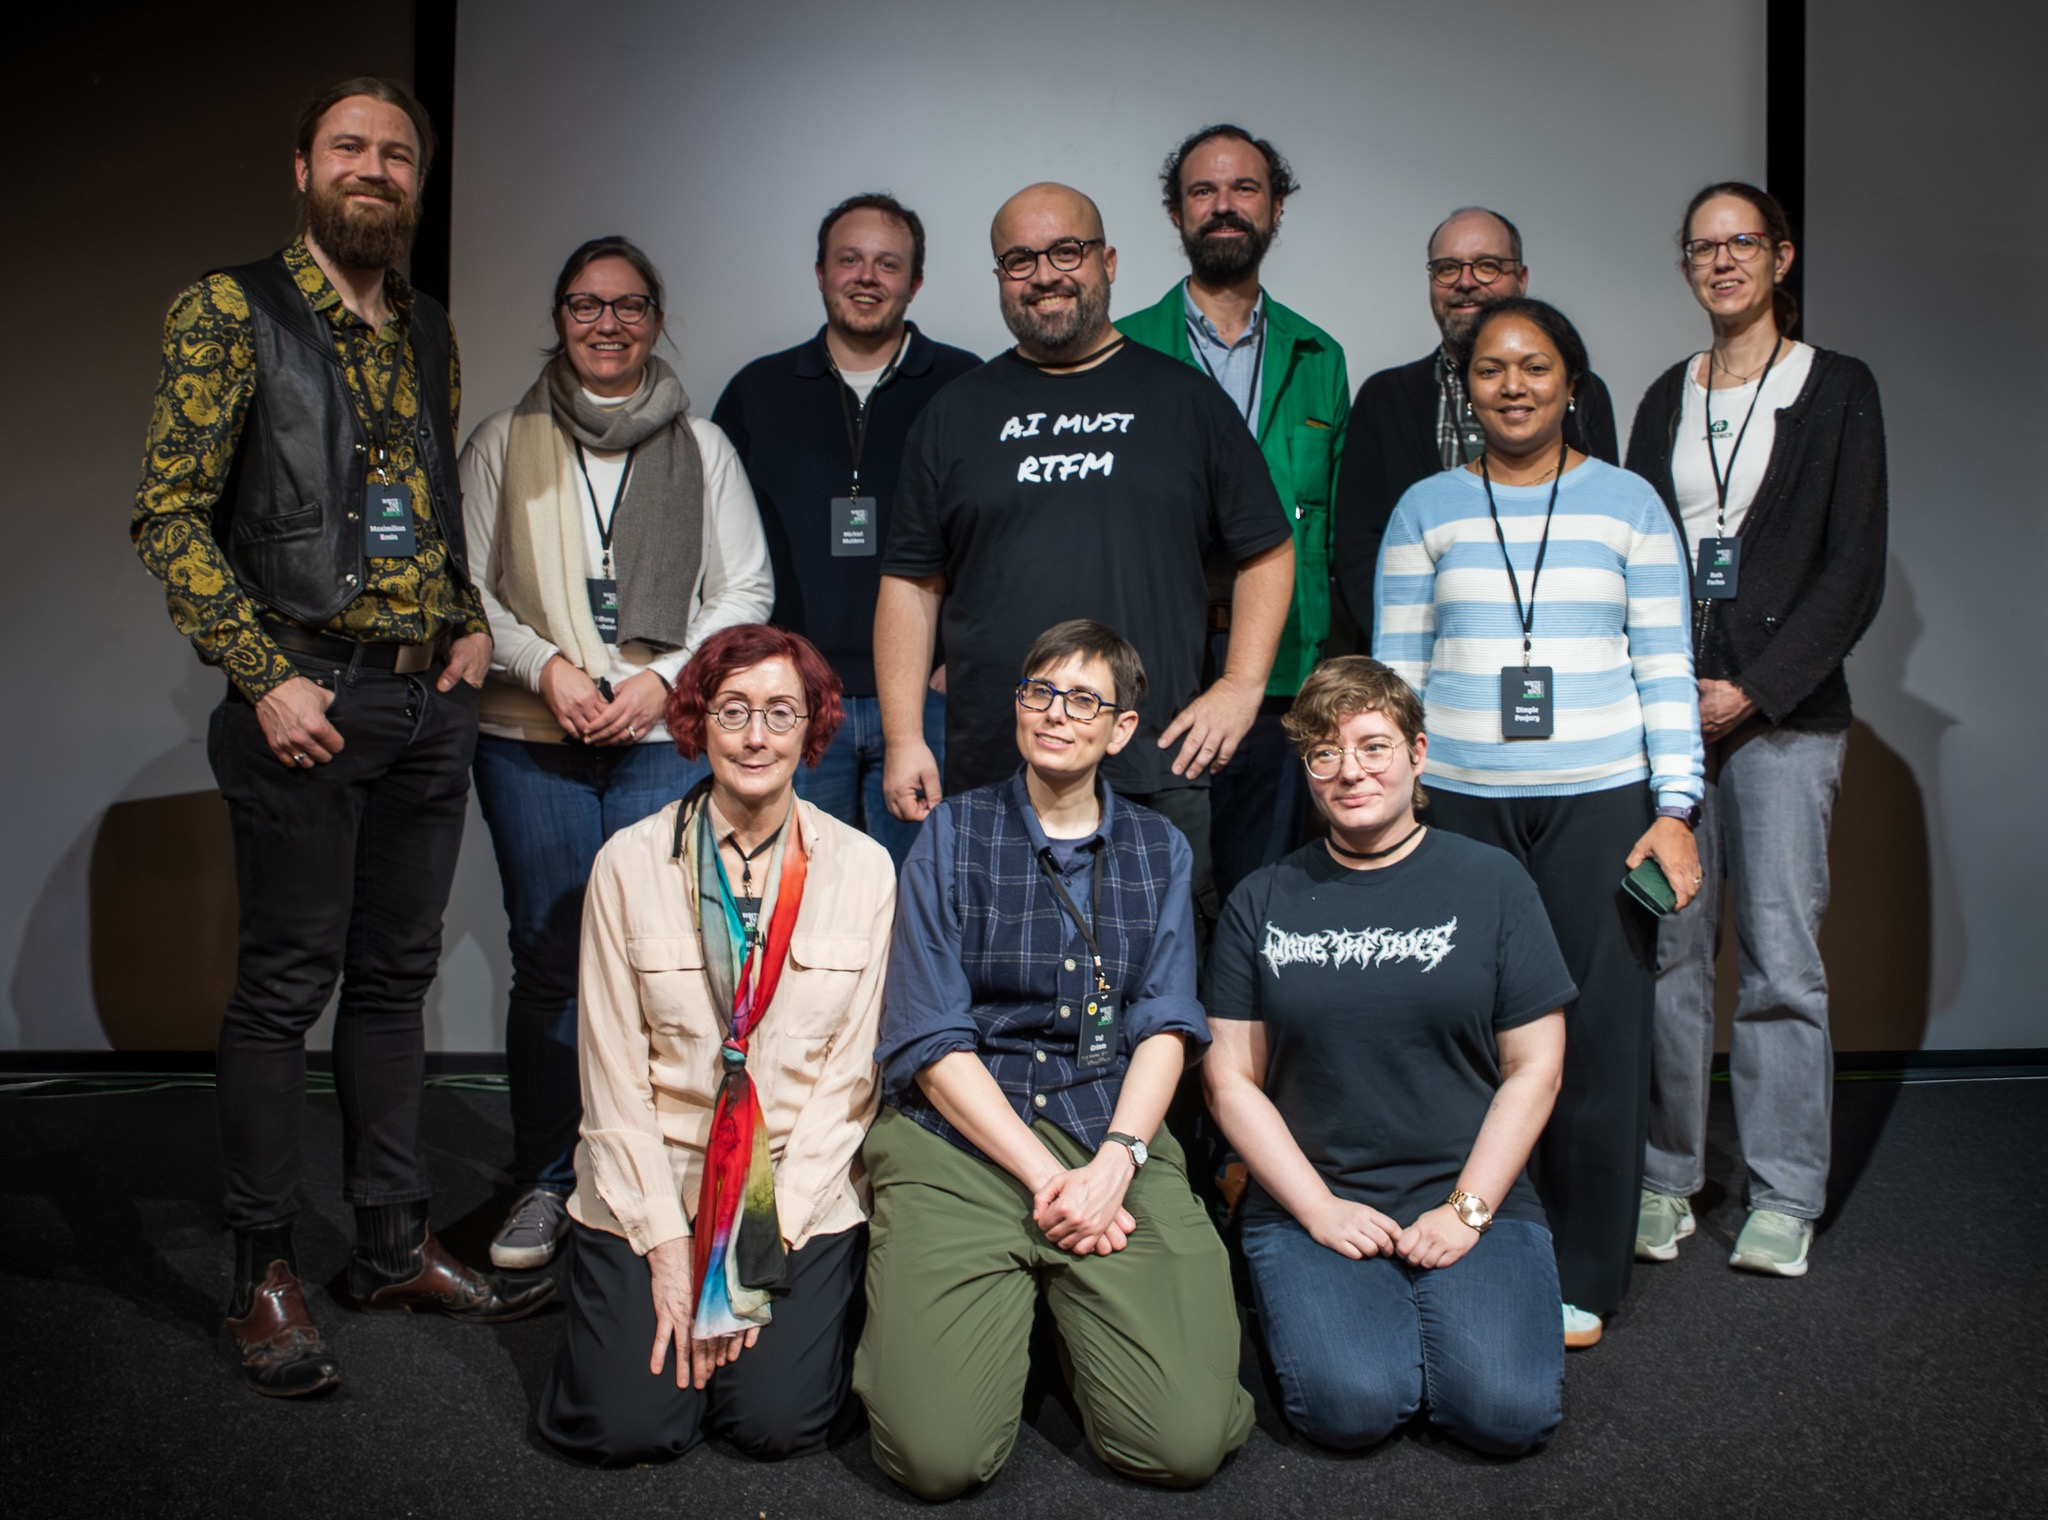
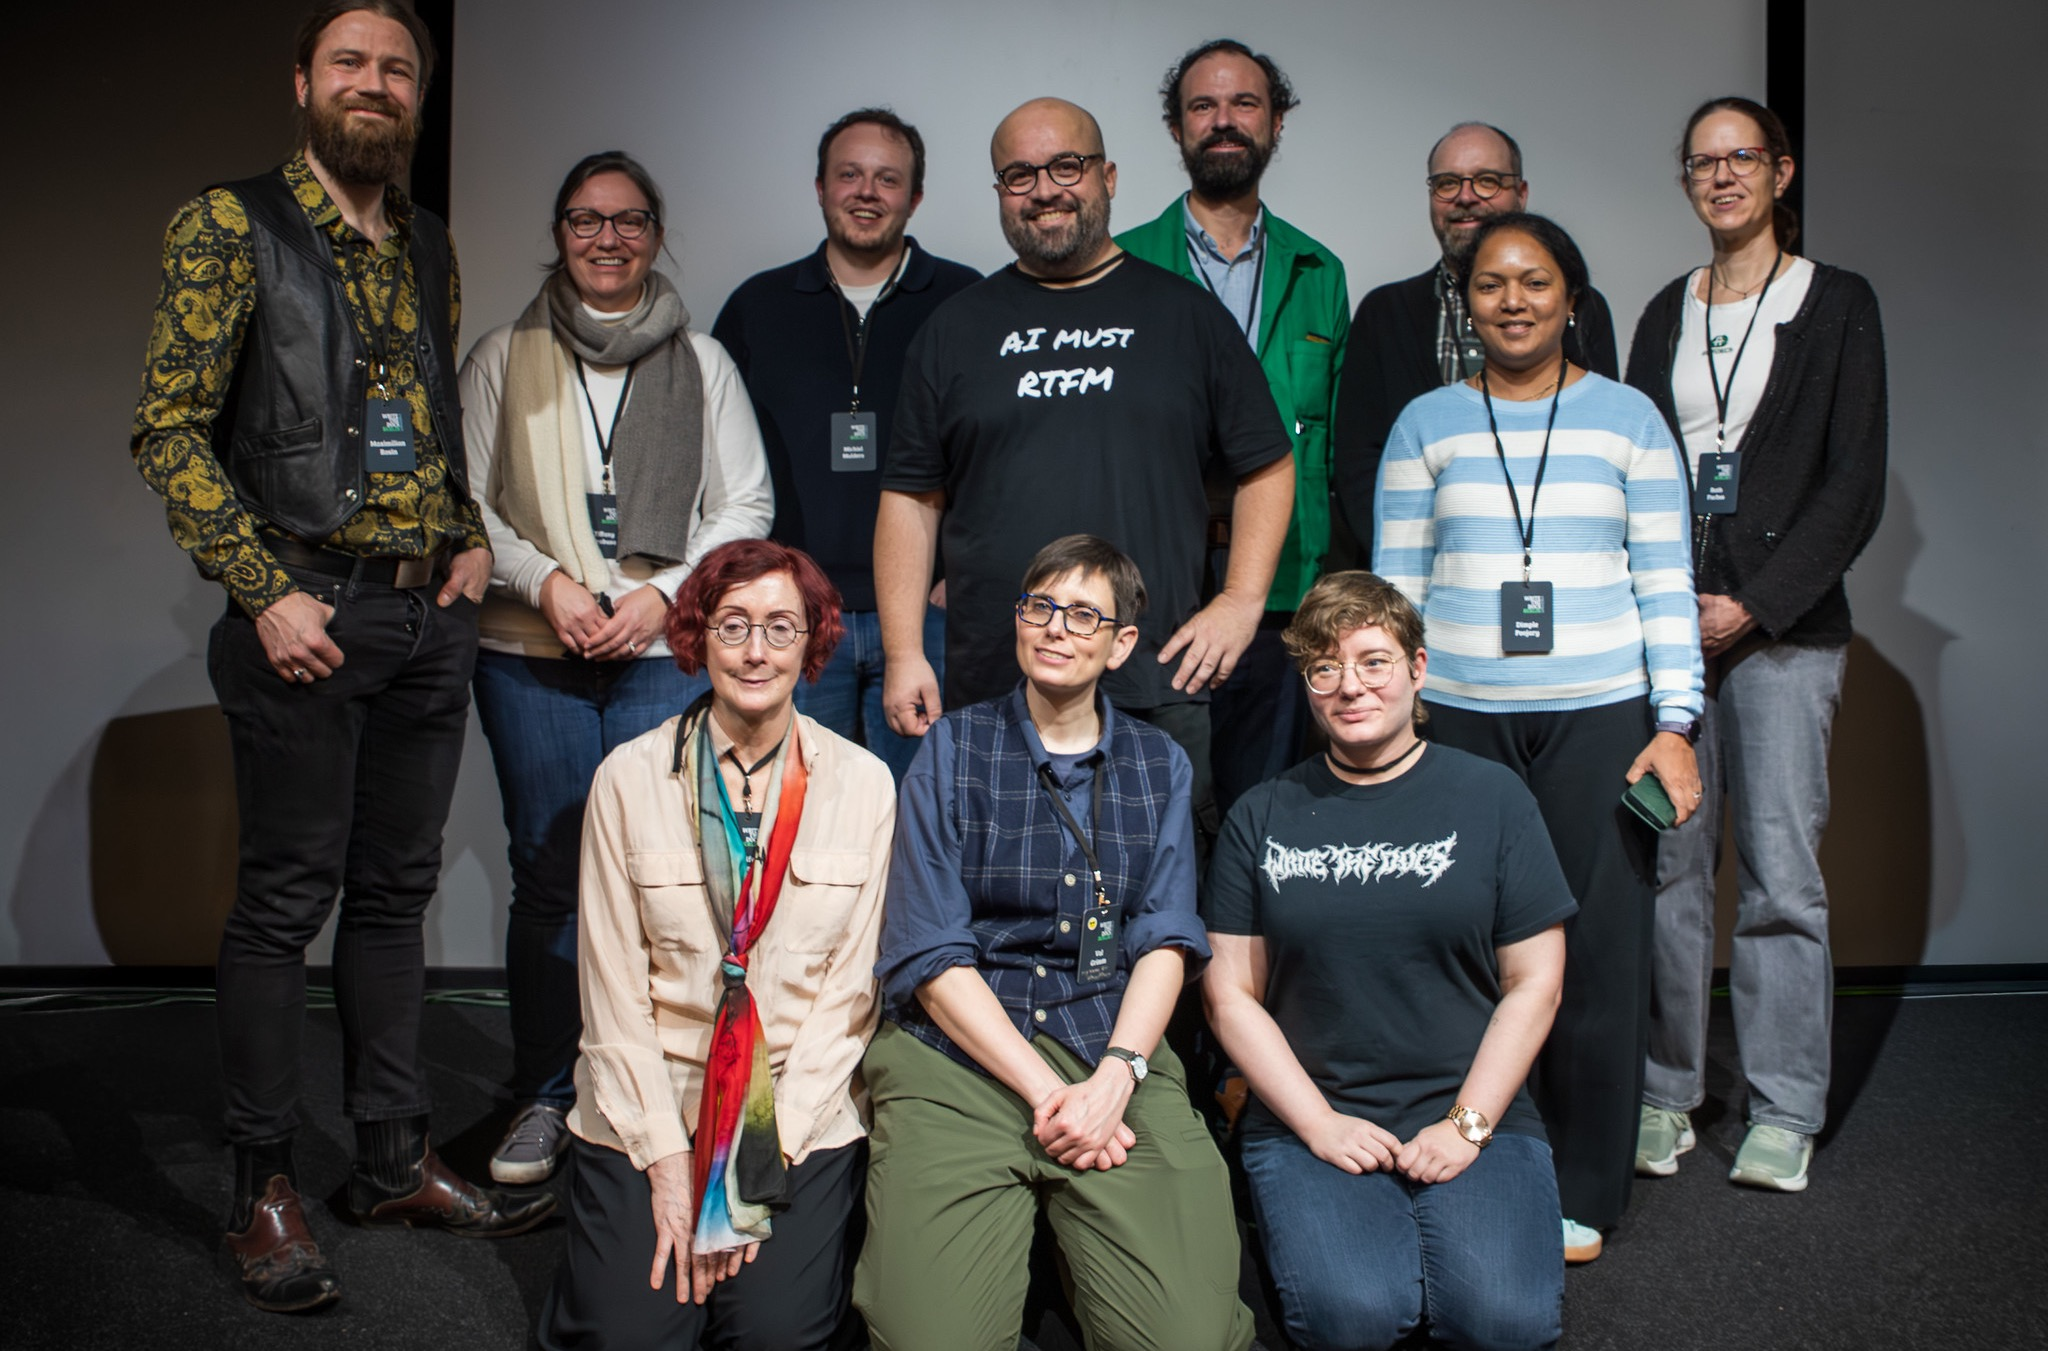
Berlin two months out / venue updates

Pull request: Berlin two months out / venue updates
<!-- readthedocs-preview writethedocs-www start -->
----
📚 Documentation preview 📚: https://writethedocs-www--2724.org.readthedocs.build/

<!-- readthedocs-preview writethedocs-www end -->

diff --git a/docs/conf/berlin/2026/news/two-months-out.md b/docs/conf/berlin/2026/news/two-months-out.md
@@ -1,0 +1,89 @@
+---
+template: {{year}}/generic.html
+og:image: _static/conf/images/headers/{{shortcode}}-{{year}}-opengraph.jpg
+---
+
+```{post} July 16, 2026
+:tags: {{shortcode}}-{{year}}, speakers, tickets, visiting, writing-day, social, shirts, sponsors, volunteer
+```
+
+# Conference is 2 Months Away!
+
+Write the Docs {{ city }} is just two months away, on **{{ date.short }}**. This year, we've added Writing Day back in, on {{ date.day_two.dotw }}. If you have not grabbed your ticket yet, now is a great time. Check out our [speaker lineup](https://www.writethedocs.org/conf/{{shortcode}}/{{year}}/speakers/), or read on to learn about our Attendee Guide, Writing Day, our Welcome Reception, T-shirts, and tips for planning your trip to Berlin.
+
+<!-- call to action button -->
+<table cellpadding="0" cellspacing="0" width="200" role="presentation" align="center" class="cta">
+<tr><td height="30"></td></tr>
+<tr><td style="background:#FDB913;padding:10px 15px;border-radius:8px;text-align:center"><a href="https://ti.to/writethedocs/write-the-docs-{{shortcode}}-{{year}}" target="_blank" style="color:#4A4A4A;text-decoration:none;font-size:15px;font-weight:bold;text-transform:uppercase">Buy your ticket</a></td></tr>
+<tr><td height="30"></td></tr></table>
+<!-- / call to action button -->
+
+## Prepare for the conference with the Attendee Guide
+
+Wondering where to ask questions, where to get food, or how to get the most out of Write the Docs? Check out our [Attendee Guide](https://www.writethedocs.org/conf/{{shortcode}}/{{year}}/attendee-guide/) for all that info and more.
+
+## Writing Day kicks off the conference
+
+Writing Day is on **{{ date.day_two.dotw }}, {{ date.day_two.date }}** at [bUm](https://www.bum.berlin/), and is included with every in-person ticket. It is a full day for documentarians to work together on real projects, whether that is open-source documentation, community content, or something you bring yourself.
+
+**{{ date.day_two.dotw }}, {{ date.day_two.date }}, {{ date.day_two.writing_day_time }} {{ tz }}**
+
+- **Morning Session**
+  - Welcome and overview
+  - Project announcements: Leads give a 2 minute summary and projects begin
+- **Lunch Break**
+- **Afternoon Session**
+  - Project announcements: Leads give a 2 minute summary, starting with the afternoon-only projects, and projects reconvene
+
+We invite you to lead a half-day or full-day project, or you can show up and join one on the day. If you plan to lead, submit your project by **{{ writing_day.project_deadline }}** and we will share it in a pre-conference blog post and email.
+
+{% if writing_day.url %}
+<!-- call to action button -->
+<table cellpadding="0" cellspacing="0" width="320" role="presentation" align="center" class="cta">
+<tr><td height="30"></td></tr>
+<tr><td style="background:#FDB913;padding:10px 15px;border-radius:8px;text-align:center"><a href="{{ writing_day.url }}" target="_blank" style="color:#4A4A4A;text-decoration:none;font-size:15px;font-weight:bold;text-transform:uppercase">Submit Your Writing Day Project</a></td></tr>
+<tr><td height="30"></td></tr></table>
+<!-- / call to action button -->
+{% endif %}
+
+See the [Writing Day page](https://www.writethedocs.org/conf/{{shortcode}}/{{year}}/writing-day/) for more details.
+
+## Sign up to volunteer
+
+Volunteers help the conference run smoothly and receive a **free ticket** in exchange for two or more 3-4 hour shifts. Volunteer applications close on **{{ volunteer.applications_close }}**. Visit our [Volunteer page](https://www.writethedocs.org/conf/{{shortcode}}/{{year}}/volunteer/) to learn more and sign up.
+
+## Welcome Reception
+
+New this year, we are hosting our Welcome Reception on {{ date.day_two.dotw }} evening. This is a great chance to get your badge and meet other attendees.
+
+**When**: {{ date.day_two.dotw }}, {{ date.day_two.reception_time }} {{ tz }}
+
+Both alcoholic and non-alcoholic drinks and snacks will be provided.
+
+## Planning your trip to Berlin
+
+If you are travelling to Berlin, our [Visiting Berlin](https://www.writethedocs.org/conf/{{shortcode}}/{{year}}/visiting/) page has tips on getting around, neighbourhoods to consider staying in, and things to do while you are here. The [Venue page](https://www.writethedocs.org/conf/{{shortcode}}/{{year}}/venue/) has directions to bUm from the nearest U-Bahn stations, including notes on step-free access.
+
+## Join the conversation on Slack
+
+Our [Slack community](https://www.writethedocs.org/slack/) is the best place to connect with other attendees before, during, and after the conference. The `#wtd-conferences` channel is the primary space for conference chatter. If you have not joined yet, note that there is a short signup form before you can create your account.
+
+## T-shirts are now available
+
+The [Write the Docs {{ city }} {{ year }} T-shirt Shop]({{ shirts.url }}) is open! We're doing a mail order shop so people can order the exact shirt they want, if they want one. Shipping is available from the USA or Europe. We recommend you order your shirt at least 2-3 weeks in advance if you want to sport your new garb during the conference.
+
+## Thanks to our sponsors
+
+We are grateful to have the support of the following companies in {{year}}:
+
+```{eval-rst}
+.. datatemplate::
+   :source: /_data/{{shortcode}}-{{year}}-config.yaml
+   :template: {{year}}/sponsors-simplelist.rst
+```
+
+If your company is interested in sponsoring, you can find all the details in our [sponsorship prospectus](https://www.writethedocs.org/conf/{{shortcode}}/{{year}}/sponsors/prospectus/).
+
+For the latest updates, follow us on [LinkedIn](https://www.linkedin.com/company/write-the-docs), [Bluesky](https://bsky.app/profile/writethedocs.bsky.social), and [Mastodon](https://fosstodon.org/@writethedocs).
+
+We look forward to seeing you in Berlin in September!

diff --git a/docs/conf/berlin/2026/attendee-guide.md b/docs/conf/berlin/2026/attendee-guide.md
@@ -15,45 +15,21 @@ Whether you have a question about the schedule, where to eat, or how to connect 
 ## Welcome Wagon Tour
 Join us for an introduction to Write the Docs. We’ll go on a short tour of the venue and review information about the conference. The tour is designed to give attendees the information they need to feel comfortable at the conference. This also gives everyone a chance to meet someone new. Bring any questions you may have.
 
-Welcome Wagon Tour is scheduled for: 
+Welcome Wagon Tour is scheduled for:
 
-- TBD
+- Sunday TBD
+- Monday TBD
 
 ## Conference Layout
 
-### Registration, Welcome Wagon, and Sponsors
-
-Location: Foyer on ground floor
-
-### Speaker Talks
-
-Location: Auditorium on ground floor
-
-### Unconference
-
-Location: bUm Box on first floor
-
-### Catering 
-
-Location: Wintergarten in basement floor
-
-### Communal Rooms
-
-Location: Awareness room, Prayer room, room for Presence and Movement are in the basement floor
-
-### Parents Room
-
-Location: Basement floor
-*ask registration staff for key
-
-View our [Venue](/conf/{{shortcode}}/{{year}}/venue/) page for details on how to get to bUm.
+View our [Venue](/conf/{{shortcode}}/{{year}}/venue/) page for details and the layout of spaces during the conference.
 
 
 ## Food and Drinks
 
 - Coffee, tea, and light snacks will be provided in the morning and afternoon. 
 - Bring a water bottle to refill.
-- The Cafeteria in the venue is open from 10:00-16:00 where you can purchase food and drink. We are confirming whether it is open on Sunday. 
+- The Cafeteria in the venue will be open during the conference. Exact hours to be released closer to the conference.
 - There are many food and beverage options within a 10-minute walk of the venue. View the [Visiting Berlin](/conf/{{shortcode}}/{{year}}/visiting/) page.
 
 ## Dress Code
@@ -126,7 +102,7 @@ The [Unconference](/conf/{{shortcode}}/{{year}}/unconference/) consists of atten
 ### Sponsor Expo:
 [Sponsor Expo](https://www.writethedocs.org/conf/{{shortcode}}/{{year}}/sponsors/) will include companies sharing products and others hiring. They'll be in the foyer on both talk days, Monday and Tuesday.
 
-### Monday Conference Party:
+### Monday Night Social:
 This is our main social event of the conference. Drinks and snacks provided by us. It is a time to connect with other attendees outside of the scheduled programming. Come for an hour or stay the entire time!
 
 Details TBD.

diff --git a/docs/conf/berlin/2026/writing-day.md b/docs/conf/berlin/2026/writing-day.md
@@ -13,12 +13,12 @@ Writing Day is modeled after the concept of [code sprints](https://en.wikipedia.
 
 Attendees can lead a Writing Day project or join and contribute to someone else's project. Projects can run for a half-day or full-day.
 
-More details are below. No additional sign up is required, and the full schedule will be released in the coming months.{% if writing_day.url %} Ready to submit a Writing Day project? Click the link below.{% endif %}
+More details are below. No additional sign up is required.{% if writing_day.url %} Ready to submit a Writing Day project? Click the link below.{% endif %}
 
 {% if writing_day.url %}
 <div class="announcement" style="background-color:white;">
     <div class="uk-container">
-    <a style="border-bottom: none; font-size: .875rem;" class="uk-button uk-button-announcement uk-text-center" href="{{ writing_day.url }}">Submit your Writing Day project</a>
+    <a style="border-bottom: none; font-size: .875rem;" class="uk-button uk-button-announcement uk-text-center" href="{{ writing_day.url }}">Submit Your Writing Day Project</a>
     </div>
 </div>
 {% endif %}
@@ -30,14 +30,12 @@ More details are below. No additional sign up is required, and the full schedule
 Writing Day is an all-day event designed for you to join in throughout the day.
 We may make changes to the structure closer to the conference.
 
-- **Morning Session**
-  - Welcome and overview
-  - Project announcements: Leads give a 2 minute summary and projects begin
-- **Lunch Break**
-- **Afternoon Session**
-  - Project announcements: Leads give a 2 minute summary, starting with the afternoon-only projects, and projects reconvene
-
-Exact times will be posted on our [schedule page](/conf/{{shortcode}}/{{year}}/schedule/).
+- **8:30** - Doors open
+- **9:30** - Welcome and overview
+- **10:00** - Project announcements: Leads give a 2 minute summary and projects begin
+- **12:30-14:00** - Lunch break
+- **14:00-17:00** - Afternoon sessions: Leads give a 2 minute summary, starting with the afternoon-only projects, and projects reconvene
+- **17:00-19:00** - Welcome reception
 
 ## How to Prepare
 
@@ -57,17 +55,15 @@ Leading a project at Writing Day is a wonderful opportunity to engage with docum
 
 **If you submit your project by {{ writing_day.project_deadline }}, we will share your project in a blog post and email with our attendees before the conference.**
 
-{% if writing_day.url %}[Submit projects]({{ writing_day.url }}){% endif %}
-
-Walk-on projects are always welcome. You are still more than welcome to bring a project the day of and announce it during the actual Writing Day.
-
 {% if writing_day.url %}
 <div class="announcement" style="background-color:white;">
     <div class="uk-container">
-    <a style="border-bottom: none; font-size: .875rem;" class="uk-button uk-button-announcement uk-text-center" href="{{ writing_day.url }}">Submit your Writing Day project</a>
+    <a style="border-bottom: none; font-size: .875rem;" class="uk-button uk-button-announcement uk-text-center" href="{{ writing_day.url }}">Submit Your Writing Day Project</a>
     </div>
 </div>
 {% endif %}
+
+Walk-on projects are always welcome. You are still more than welcome to bring a project the day of and announce it during the actual Writing Day.
 
 **Tips to create and lead a new project effectively:**
 

diff --git a/docs/conf/berlin/2026/venue.md b/docs/conf/berlin/2026/venue.md
@@ -11,22 +11,33 @@ og:image: _static/conf/images/headers/{{shortcode}}-{{year}}-opengraph.jpg
 Paul-Lincke-Ufer 21, 10999 Berlin, Germany
 [Map link](https://www.google.com/maps/place/bUm+-+Raum+f%C3%BCr+solidarisches+Miteinander/@52.4937094,13.4270626,17z/data=!3m2!4b1!5s0x47a84fb459055813:0x3cad2ecfcf84e633!4m6!3m5!1s0x47a84fd9cf3e7c43:0x538772e39fff3a0e!8m2!3d52.4937094!4d13.4296375!16s%2Fg%2F11h91cct20?entry=ttu&g_ep=EgoyMDI1MDgyNS4wIKXMDSoASAFQAw%3D%3D)
 
-Our conference will be held at [bUm Berlin](https://www.bum.berlin/), a community and cultural centre located on the banks of the Landwehr Canal in the heart of Kreuzberg.
+Our conference will be held at [bUm Berlin](https://www.bum.berlin/) (Raum für solidarisches Miteinander), a community and cultural centre located on the banks of the Landwehr Canal in the heart of Kreuzberg.
 
-## Getting There
+## Getting to the Venue
 
-bUm Berlin is easily accessible by public transport. The following stops are within a 15-minute walk:
+### By U-Bahn
 
-**Bus**
+- U8: Schönleinstraße
+- U1 and U3: Görlitzer Bahnhof
+- U7 and U8: Hermannplatz
+
+The best way to get to the venue is to take the **U8 (Schönleinstraße)** or the **U7/U8 (Hermannplatz)**.
+
+From Schönleinstraße, take Bürknerstraße to the intersection at Hobrechtbrücke, cross the bridge and turn right onto Paul-Lincke-Ufer.
+
+From Hermannplatz, you can cross Sonnenallee, turn right into Weserstraße and then take the second street on the left (Friedelstraße). This also leads to Hobrechtbrücke, which you cross and then turn right onto Paul-Lincke-Ufer.
+
+Note: the subway station closest to bUm (Schönleinstraße) does not have an elevator. The Hermannplatz subway station has elevators, so this is your best option if you need step-free access. Görlitzer Bahnhof does not have an elevator either.
+
+### By bus
 
 - Line M29: Ohlauer Str.
 - Line 194: Pflügerstr.
 - Line M41: Jahnstr.
 
-**U-Bahn**
+### By car
 
-- U8: Schönleinstraße
-- U1 and U3: Görlitzer Bahnhof
+If you would like to arrive by car, note that Paul-Lincke-Ufer is within the Reichenberger Kiez paid parking zone (Zone 64). Parking costs €3 per hour, Monday to Saturday from 09:00 to 22:00, and spaces are often full.
 
 ## Conference Layout
 

diff --git a/docs/conf/berlin/2026/social-events.md b/docs/conf/berlin/2026/social-events.md
@@ -13,21 +13,23 @@ we will have social events planned to help you connect with other attendees.
 
 ## Welcome Reception
 
-We encourage everyone to drop by on {{date.day_two.dotw}} evening for the Welcome Reception, right after Writing Day.
-This is a great chance to meet other attendees,
+New this year, we are hosting our Welcome Reception on {{date.day_two.dotw}} evening.
+This is a great chance to get your badge, meet other attendees,
 and make sure you know your way around the conference venue.
 
 **Where**: {{about.venue}}
 
-**When**: {{date.day_two.dotw}}, {{date.day_two.reception_time}}
+**When**: {{date.day_two.dotw}}, {{date.day_two.reception_time}} {{tz}}
 
-## {{date.day_three.dotw}} Social
+Both alcoholic and non-alcoholic drinks and snacks will be provided.
+
+## {{date.day_three.dotw}} Night Social
 
 Join us for our {{date.day_three.dotw}} night social event! This is a great chance to meet more of your fellow documentarians
 and chat about the conference in a relaxed atmosphere.
 
 **Where**: {{about.social_venue}}
 
-**When**: {{date.day_three.dotw}}, {{date.day_three.social_time}}
+**When**: {{date.day_three.dotw}}, {{date.day_three.social_time}} {{tz}}
 
-More details of the social events will be announced closer to the conference.
+Both alcoholic and non-alcoholic drinks and snacks will be provided.

diff --git a/docs/conf/berlin/2026/sponsors/information.md b/docs/conf/berlin/2026/sponsors/information.md
@@ -19,8 +19,8 @@ The [full schedule](/conf/{{ shortcode }}/{{ year }}/schedule/) will be availabl
 
 **{{ date.day_two.dotw | upper }}, {{ date.day_two.date | upper }}**:
 
-* 09:00: Doors open
-* 10:00–17:00: Writing Day and check in
+* 08:30: Doors open, check in
+* 09:30–17:00: Writing Day
 * 17:00–19:00: Welcome reception
 
 **{{ date.day_three.dotw | upper }}, {{ date.day_three.date | upper }}**:
@@ -28,7 +28,7 @@ The [full schedule](/conf/{{ shortcode }}/{{ year }}/schedule/) will be availabl
 * 08:00: Arrival and booth setup for Keystone/Patron sponsors
 * 09:00: Doors to venue/sponsor booths open
 * 10:00–17:00: Speaker Talks and Unconference
-* 19:00–21:00: Social event
+* 19:00–21:00: Monday Night Social
 
 **{{ date.day_four.dotw | upper }}, {{ date.day_four.date | upper }}**:
 

diff --git a/docs/conf/berlin/2026/tickets.md b/docs/conf/berlin/2026/tickets.md
@@ -34,7 +34,7 @@ Write the Docs {{ name }} {{ year }} is a hybrid conference, which you can atten
 
 - Entry to all conference events and activities
 - Snacks and drinks on event days (Sunday-Tuesday)
-- Welcome Reception and Social Event with light snacks and drinks
+- Welcome Reception and Monday Night Social with drinks and snacks
 - Wifi throughout the event
 - Meeting lots of fantastic people in a spacious, inviting venue
 
@@ -120,7 +120,7 @@ If you need to cancel your ticket because of fear of traveling internationally o
 
 {% if shirts and flaghasshirts %}
 
-<div class="ticket">
+<div class="ticket" id="official-conference-shirts">
   <h2>
     <strong>Official Conference Shirts</strong>
   </h2>

diff --git a/docs/conf/berlin/2026/news/announcing-tickets.md b/docs/conf/berlin/2026/news/announcing-tickets.md
@@ -23,7 +23,7 @@ Included with the in-person ticket:
 
 - Entry to all conference events and activities, including Writing Day
 - Snacks and drinks on conference days (Monday and Tuesday)
-- Social Event with light snacks and drinks
+- Monday Night Social with drinks and snacks
 - Wifi throughout the event
 - Meeting lots of fantastic people in a spacious, inviting venue.
 

diff --git a/docs/conf/berlin/2026/sponsors/prospectus.md b/docs/conf/berlin/2026/sponsors/prospectus.md
@@ -70,7 +70,7 @@ The **Keystone** sponsorship highlights you as the primary sponsor of the confer
 
 - {{sponsorship.keystone.tickets}} tickets, with additional available to purchase at a discounted rate of {{sponsorship.extra_ticket.price}}/ticket.
 - Most visible **sponsorship booth** for the entire conference (Monday & Tuesday). Monitor included in booth. Booths placed in order of purchase.
-- Sponsorship of a primary Write the Docs conference event (Unconference, Writing Day, or Social Event).
+- Sponsorship of a primary Write the Docs conference event (Unconference, Writing Day, or Monday Night Social).
 - **60 second introduction** on the main stage introducing your company.
 - Large logo on print material.
 - Large logo included in intermission slides and on talk videos.